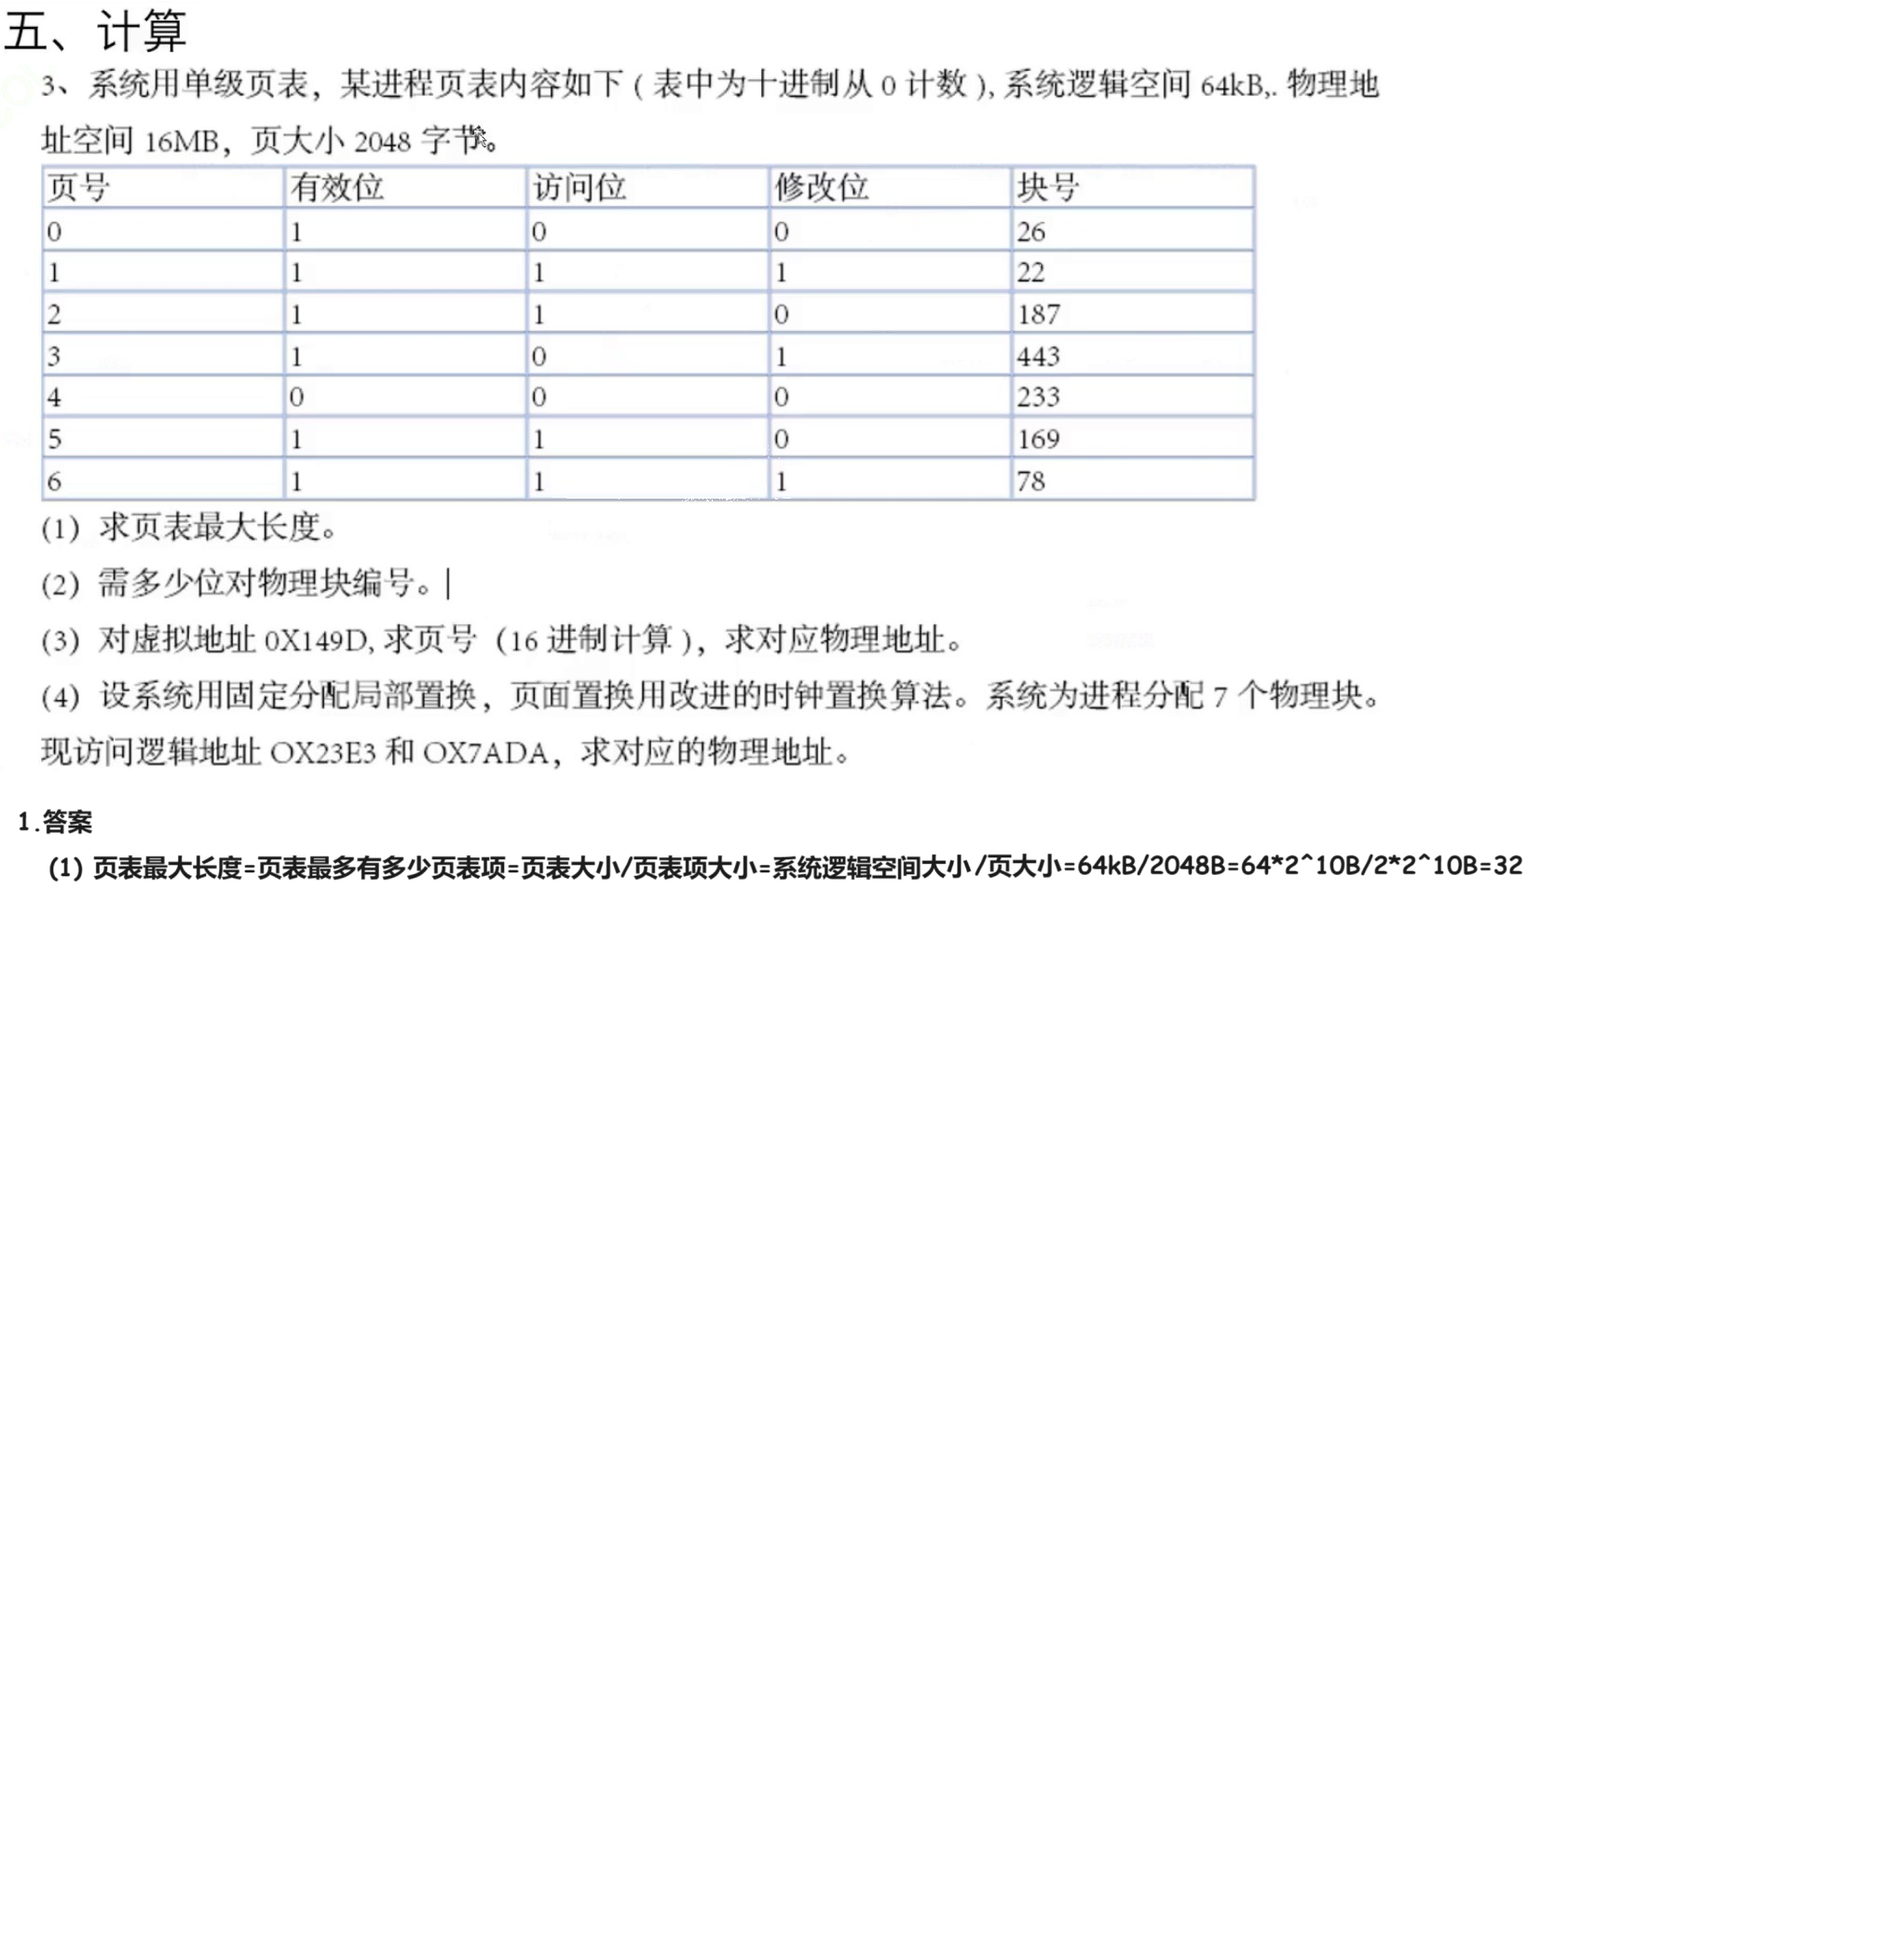
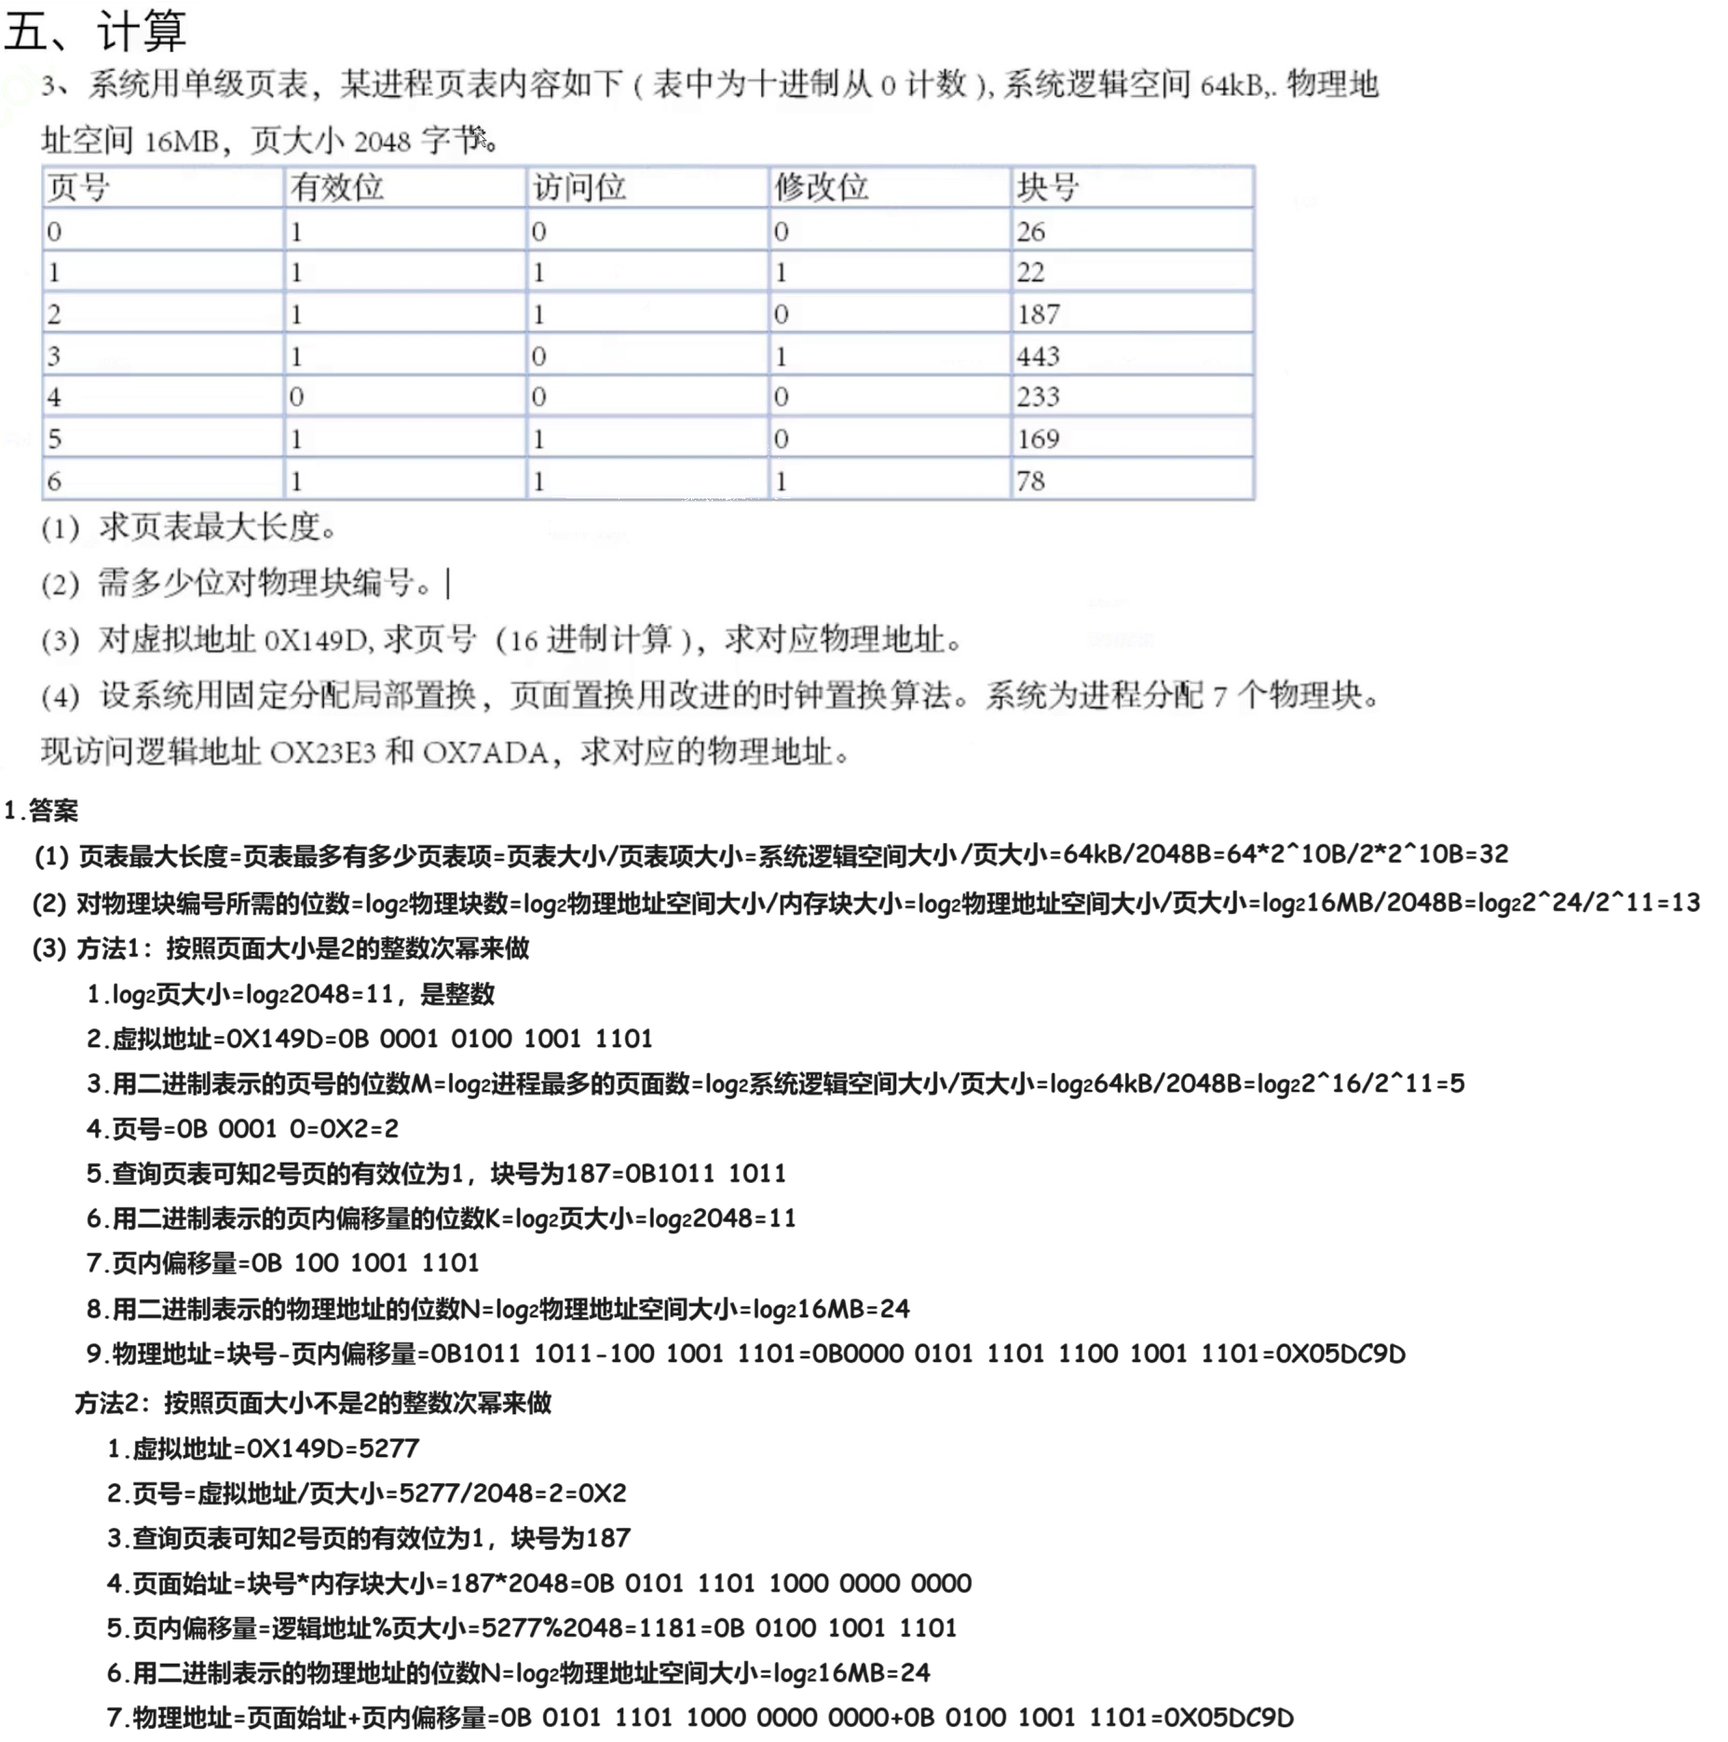
240115

Changed region(s): [[0.0, 0.0, 0.9833, 0.9925], [0.7067, 0.7754, 0.7989, 0.8064], [0.6146, 0.7754, 0.676, 0.8064]]

diff --git a/04 每日一题/01 820/05 23/01 操作系统部分/03 计算题/03 请求分页存储管理 240115/01 题目/00 总/01 Doc.md b/04 每日一题/01 820/05 23/01 操作系统部分/03 计算题/03 请求分页存储管理 240115/01 题目/00 总/01 Doc.md
@@ -1,6 +1,6 @@
 # 00 背诵
 
-
+<img src="https://cvp.oss-cn-shanghai.aliyuncs.com/picgo/202401151845147.png" alt="image-20240115184508722" style="zoom:50%;" />
 
 
 
@@ -12,7 +12,7 @@
 
 # 02 答案
 
-
+<img src="https://cvp.oss-cn-shanghai.aliyuncs.com/picgo/202401151629766.png" alt="image-20240115162918410" style="zoom:50%;" />
 
 
 
